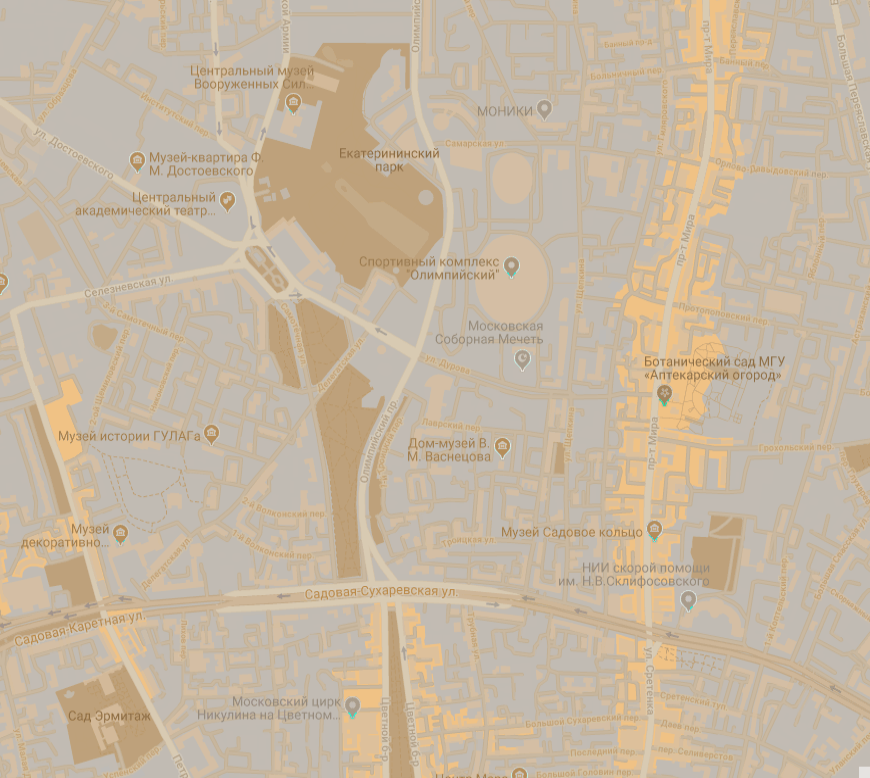
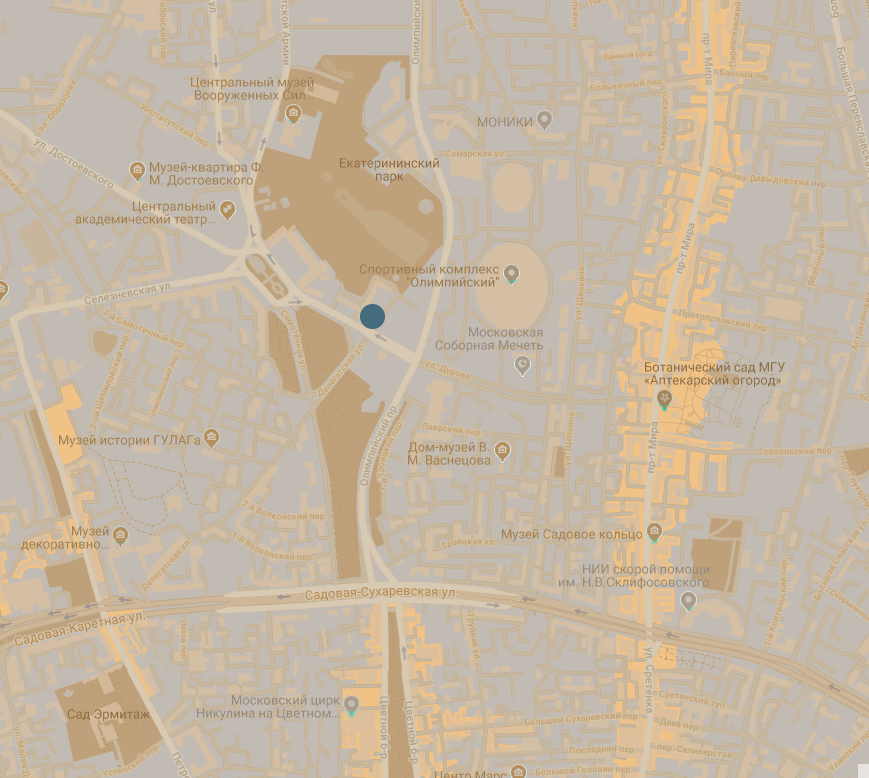
123

diff --git a/contact-us.html b/contact-us.html
@@ -9,7 +9,6 @@
 	<meta charset="utf-8" />
 	<meta id="viewport" content="width=1120,target-densityDpi=device-dpi,user-scalable=0;" name="viewport">
 
-	<link rel="shortcut icon" type="image/x-icon" href="favicon.ico" />
 
     <title>salazckin.github.io</title>
 
@@ -172,11 +171,9 @@
 					<div class="frame left"><div></div></div>
 
 					<div class="content">
-						<div class="left-block">
+						<div class="left-block" style="background: url(map.png)">
 							<div>
 								<div class="map">
-									<img src="images/layout/sizer_contact-map.gif" alt="" />
-									<div id="map_container_1" data-latitude="55.7786374" data-longitude="37.6232099"></div>
 								</div>
 
 								<div class="card-container to-load">
@@ -276,7 +273,6 @@
 
 	</div>
 
-	<script src="https://maps.google.com/maps/api/js" type="text/javascript"></script>
 	<script type="text/javascript" src="javascript/jqueryEasing.js"></script>
 	<script type="text/javascript" src="javascript/StackBlur.js"></script>
 	<script type="text/javascript" src="javascript/infiniteSlider.js"></script>

diff --git a/about-us.html b/about-us.html
@@ -12,7 +12,6 @@
     <meta charset="utf-8"/>
     <meta id="viewport" content="width=1120,target-densityDpi=device-dpi,user-scalable=0;" name="viewport">
 
-    <link rel="shortcut icon" type="image/x-icon" href="favicon.ico"/>
 
     <title>salazckin.github.io</title>
 

diff --git a/index.html b/index.html
@@ -8,7 +8,6 @@
 	<meta charset="utf-8" />
 	<meta id="viewport" content="width=1120,target-densityDpi=device-dpi,user-scalable=0;" name="viewport">
 
-	<link rel="shortcut icon" type="image/x-icon" href="favicon.ico" />
 
 	<title>salazckin.github.io</title>
 

diff --git a/portfolio-bedroom.html b/portfolio-bedroom.html
@@ -8,7 +8,6 @@
 	<meta charset="utf-8" />
 	<meta id="viewport" content="width=1120,target-densityDpi=device-dpi,user-scalable=0;" name="viewport">
 
-	<link rel="shortcut icon" type="image/x-icon" href="favicon.ico" />
 
 	<title>salazckin.github.io</title>
 

diff --git a/services-offered.html b/services-offered.html
@@ -9,7 +9,6 @@
 	<meta charset="utf-8" />
 	<meta id="viewport" content="width=1120,target-densityDpi=device-dpi,user-scalable=0;" name="viewport">
 
-	<link rel="shortcut icon" type="image/x-icon" href="favicon.ico" />
 
 	<title>salazckin.github.io</title>
 

diff --git a/tips-and-tricks.html b/tips-and-tricks.html
@@ -9,7 +9,6 @@
 	<meta charset="utf-8" />
 	<meta id="viewport" content="width=1120,target-densityDpi=device-dpi,user-scalable=0;" name="viewport">
 
-	<link rel="shortcut icon" type="image/x-icon" href="favicon.ico" />
 
 	<title>salazckin.github.io</title>
 
